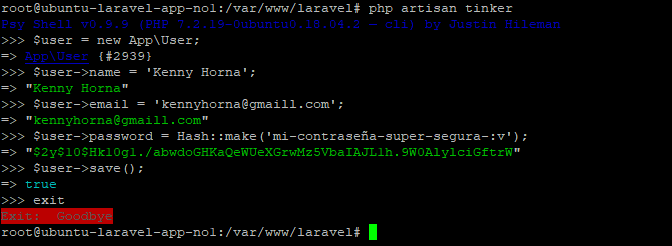
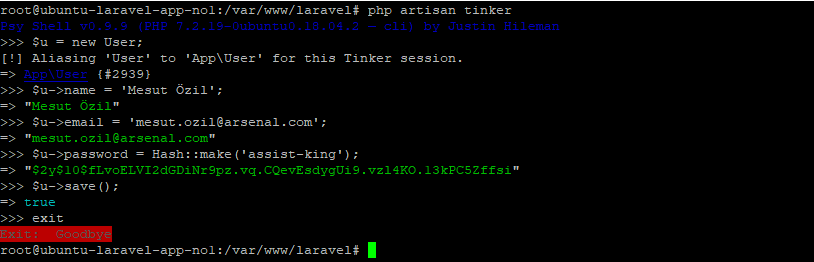
Fixed: Small corrections.

Changed region(s): [[0.0, 0.0, 1.0, 0.9959]]

diff --git a/source/_posts/desplegando-aplicaciones-laravel-6-en-lemp-stack-ubuntu-18-y-nginx-git-hooks-certificado-ssl-parte-ii.md b/source/_posts/desplegando-aplicaciones-laravel-6-en-lemp-stack-ubuntu-18-y-nginx-git-hooks-certificado-ssl-parte-ii.md
@@ -177,7 +177,7 @@ código está listo para ser subido- podemos proceder a subir nuestro código.
 git push production master
 ```
 
-#### Verificando que nuestro Git Hook funciona
+#### Verificando que nuestro Git Hook funcione
 
 Tenemos que comprobar que nuestro Hook funciona, de lo contrario, todo esto habría sido en vano ;). Para esto,
 vamos a volver a acceder a nuestro servidor mediante `SSH`:
@@ -383,9 +383,9 @@ Así que nuestro ``.env`` quedaría de la siguiente forma (a groso modo):
 ![](/assets/images/posts/desplegando-aplicaciones-laravel-6-en-lemp-stack-ubuntu-18-y-nginx-p02-8.png)
  
 
-#### Nuestra llave de encriptación
+#### Generando nuestra llave de encriptación
 
-Tal como mencioné anteriormente, vamos a generar nuestra llave de encripción con ayuda de un comando del propio
+Tal como mencioné anteriormente, vamos a generar nuestra llave de encriptación con ayuda de un comando del propio
 Laravel. Para esto ejecutamos:
 
 ```bash
@@ -436,7 +436,7 @@ Dado que estoy subiendo una instalación fresca de Laravel, en mi caso solo migr
 #### Poblando nuestra base de datos
 
 Podemos poblar nuestra base de datos mediante [Seeders](https://laravel.com/docs/seeding). Si es que tuvieras 
-configurado tus _seeders_ para poblar tus tablas maestras, es buen momento de correrlos. Para esto hacemos:
+configurado tus _seeders_ para poblar tus tablas maestras, es buen momento de correrlos. Para esto haríamos:
 
 ```bash
 php artisan db:seed
@@ -455,11 +455,11 @@ instancia del -en mi caso- modelo ``User``, que es el que tengo como tabla princ
 último guardaremos en la base de datos:
 
 ```bash
-$user = new App\User;
-$user->name = 'Mesut Özil';
-$user->email = 'mesut.ozil@arsenal.com';
-$user->password = Hash::make('assist-king');
-$user->save();
+$u = new App\User;
+$u->name = 'Mesut Özil';
+$u->email = 'mesut.ozil@arsenal.com';
+$u->password = Hash::make('assist-king');
+$u->save();
 
 exit
 ```
@@ -493,9 +493,9 @@ quede claro qué hacemos en cada paso.
 > Es importante saber el **QUÉ**, pero más importante aún, saber el **POR QUÉ** de lo que hacemos.
 
 Ya tenemos nuestra aplicación funcionando. Solo nos queda configurar nuestro dominio en nuestra app y agregarle un
-certificado SSL a nuestra aplicación. Esto lo veremos en la siguiente (y última) **Parte III**. 
+certificado SSL a nuestra aplicación. Esto lo veremos en la tercera -y última- **Parte III**. 
 
-Si es que tienes dudas sobre los pasos anteriores, visita la [Parte I (Instalación y configuración de LEMP Stack)](/blog/desplegando-aplicaciones-laravel-6-en-lemp-stack-ubuntu-18-y-nginx-git-hooks-certificado-ssl-parte-i/).
+Si es que tienes dudas sobre los pasos anteriores, visita la [Parte I (Instalación y configuración de LEMP Stack)](/blog/desplegando-aplicaciones-laravel-6-en-lemp-stack-ubuntu-18-y-nginx-git-hooks-certificado-ssl-parte-i/)
 de la guía.
 
 Cualquier comentario, observación, pregunta y/o aclaración es bien recibida así que.. nos vemos 💪😉.

diff --git a/source/_categories/php.md b/source/_categories/php.md
@@ -1,6 +1,6 @@
 ---
 extends: _layouts.category
-title: HPP
+title: PHP
 description: Mis artículos relacionados con PHP.
 ---
 
